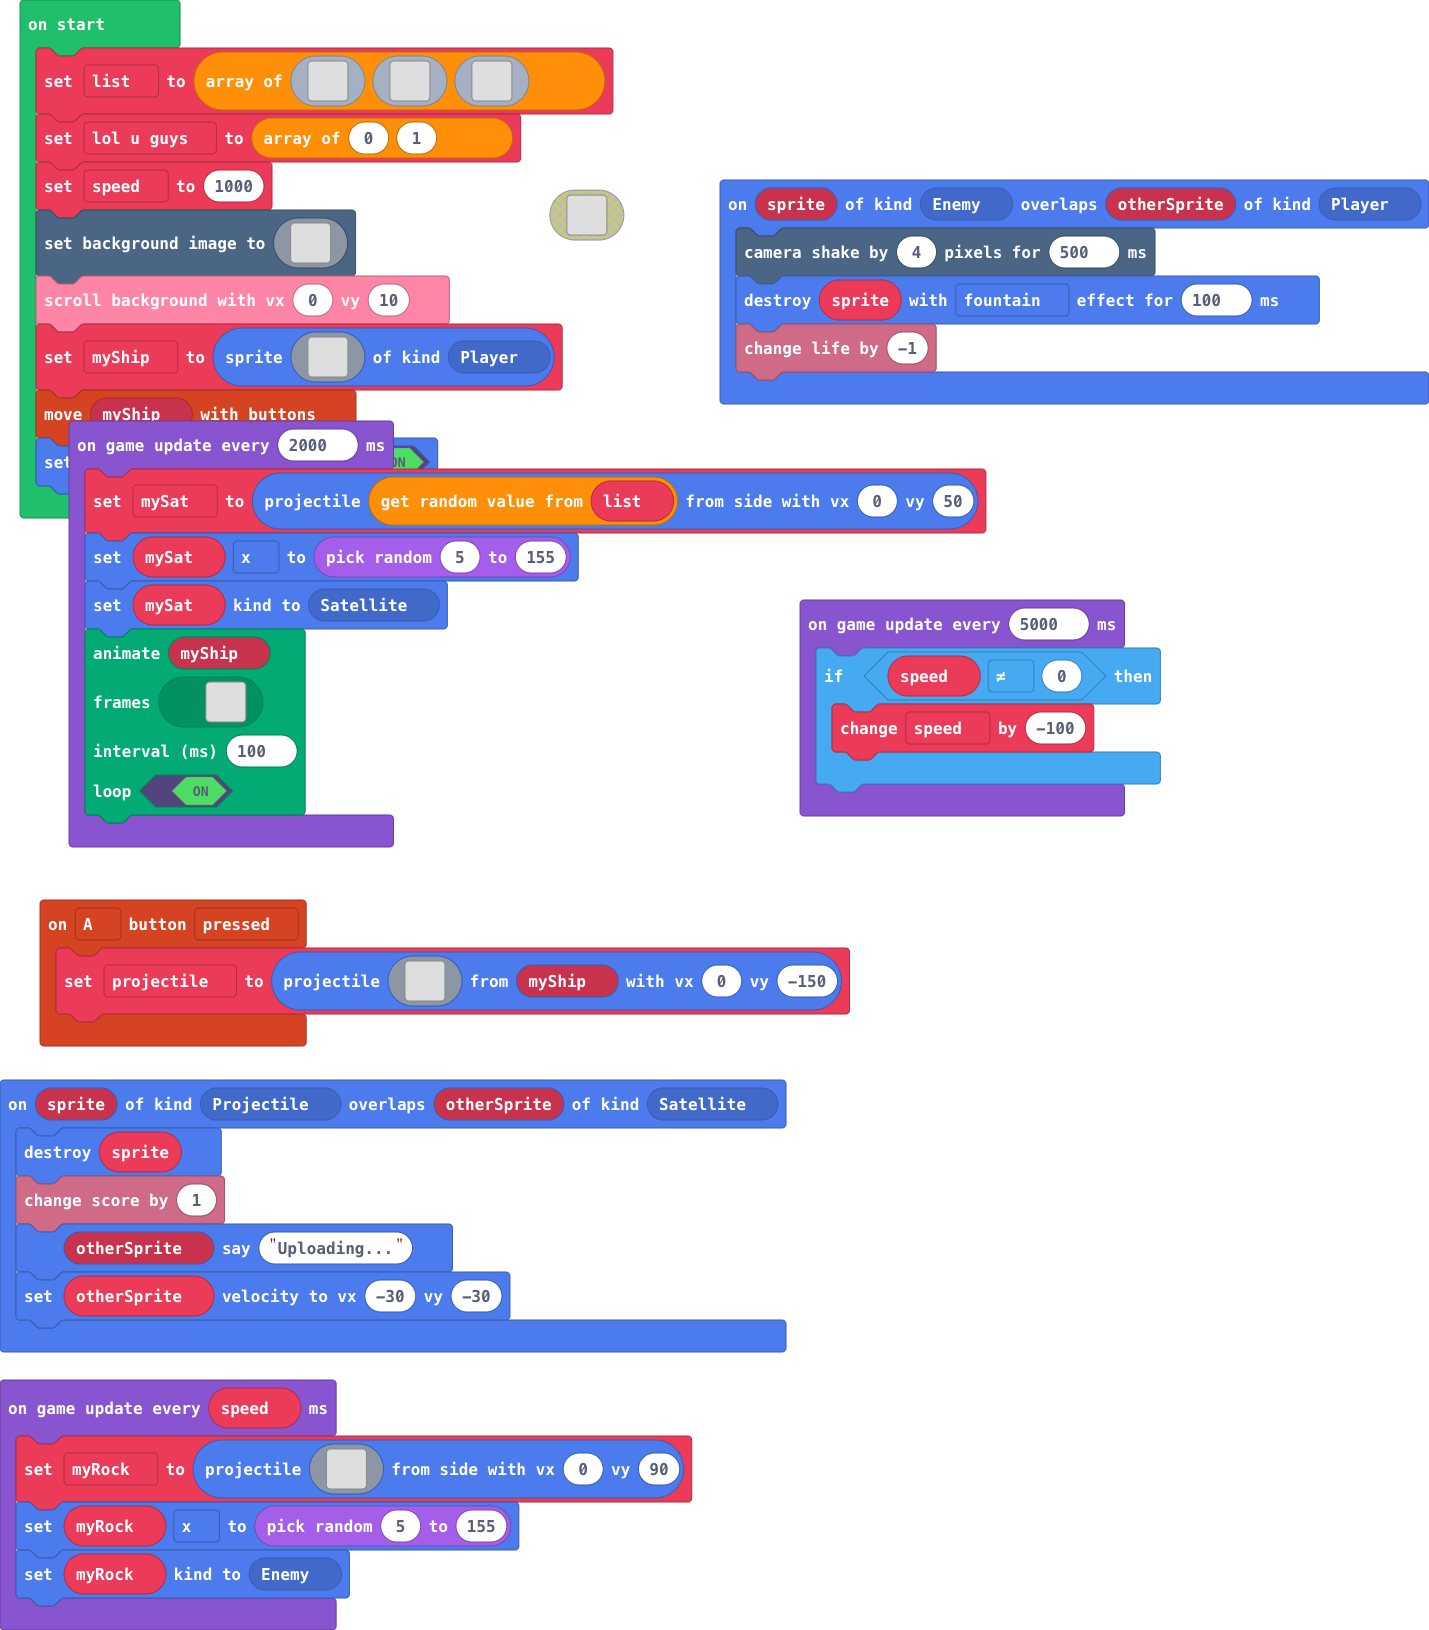
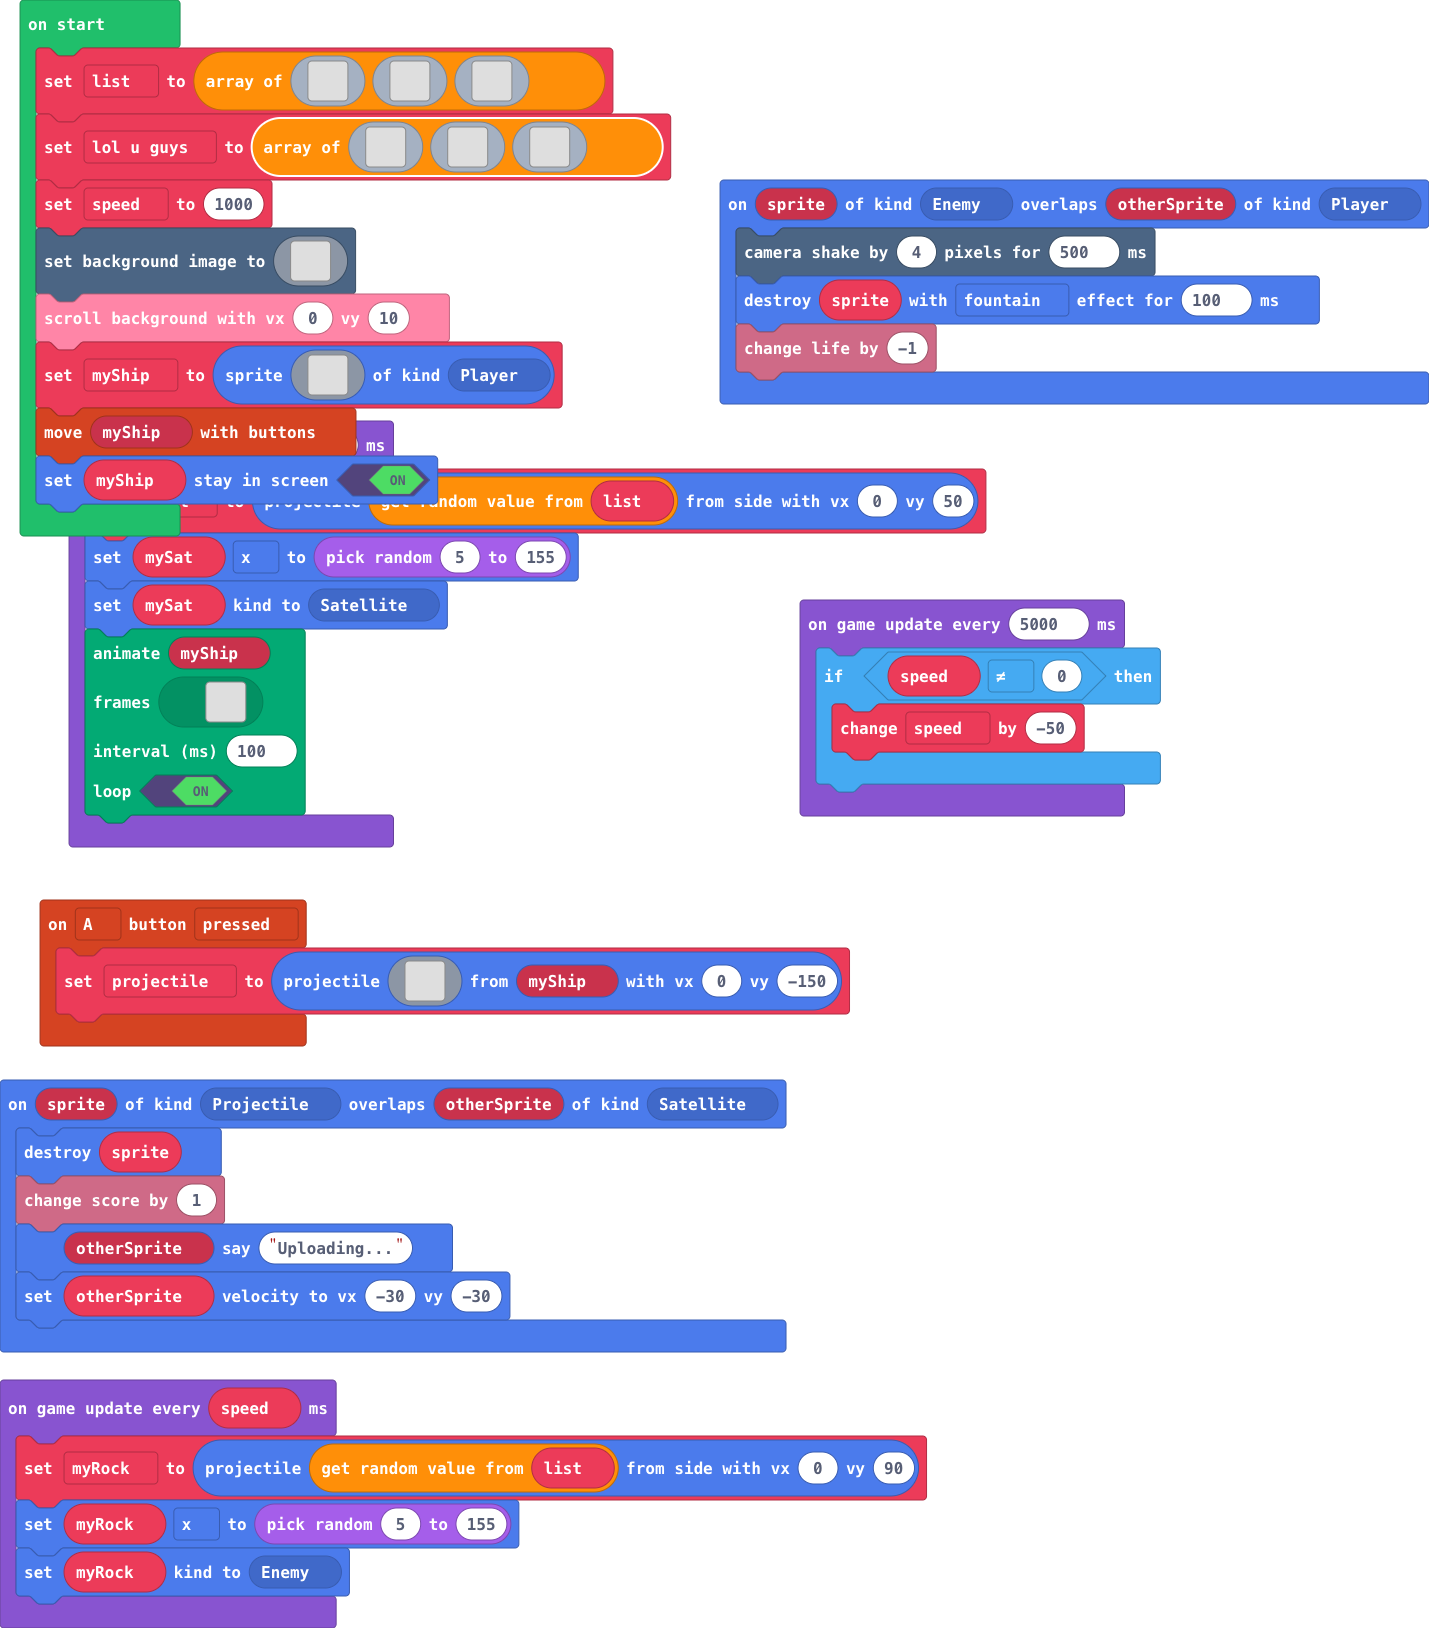
Update main.blocks, main.ts

diff --git a/main.ts b/main.ts
@@ -69,7 +69,58 @@ let list = [img`
     . . . 5 2 2 2 2 2 2 2 2 2 2 2 2 2 5 . . . 
     . . . . . . . . . . . . . . . . . . . . . 
     `]
-let lol_u_guys = [0, 1]
+let lol_u_guys = [img`
+    .........33.........
+    .........333........
+    ........33433.......
+    ........34543.......
+    ........bbbbb.......
+    ........ddddd.......
+    ........ddddd.......
+    .......4444444......
+    ........eeeee.......
+    .........444........
+    .....eeeeeeeeeee....
+    ......444444444.....
+    .......4e44444......
+    ........e4e44.......
+    .........444........
+    ..........4.........
+    `, img`
+    . . . . . . . . . . . . . . . . 
+    . . . . . . . . . . . . . . . . 
+    . . . . . . . . . . . . . . . . 
+    . . . . . . . . . . . . . . . . 
+    . . . . . . . . . . . . . . . . 
+    . . . . . . . . . . . . . . . . 
+    . . . . . . . . . . . . . . . . 
+    . . . . . . . . . . . . . . . . 
+    . . . . . . . . . . . . . . . . 
+    . . . . . . . . . . . . . . . . 
+    . . . . . . . . . . . . . . . . 
+    . . . . . . . . . . . . . . . . 
+    . . . . . . . . . . . . . . . . 
+    . . . . . . . . . . . . . . . . 
+    . . . . . . . . . . . . . . . . 
+    . . . . . . . . . . . . . . . . 
+    `, img`
+    . . . . . . . . . . . . . . . . 
+    . . . . . . . . . . . . . . . . 
+    . . . . . . . . . . . . . . . . 
+    . . . . . . . . . . . . . . . . 
+    . . . . . . . . . . . . . . . . 
+    . . . . . . . . . . . . . . . . 
+    . . . . . . . . . . . . . . . . 
+    . . . . . . . . . . . . . . . . 
+    . . . . . . . . . . . . . . . . 
+    . . . . . . . . . . . . . . . . 
+    . . . . . . . . . . . . . . . . 
+    . . . . . . . . . . . . . . . . 
+    . . . . . . . . . . . . . . . . 
+    . . . . . . . . . . . . . . . . 
+    . . . . . . . . . . . . . . . . 
+    . . . . . . . . . . . . . . . . 
+    `]
 let speed = 1000
 scene.setBackgroundImage(img`
     eeeeeeeeeeeeeeeeeeeeeeeeeeeeeeeeeeeeeeeeeeeeeeeeeeeeeeeeeeeeeeeeeeeeeeeeeeeeeeeeeeeeeeeeeeeeeeeeeeeeeeeeeeeeeeeeeeeeeeeeeeeeeeeeeeeeeeeeeeeeeeeeeeeeeeeeeeeeeeee
@@ -332,7 +383,7 @@ controller.moveSprite(myShip)
 myShip.setStayInScreen(true)
 game.onUpdateInterval(5000, function () {
     if (speed != 0) {
-        speed += -100
+        speed += -50
     }
 })
 game.onUpdateInterval(2000, function () {
@@ -392,24 +443,7 @@ game.onUpdateInterval(2000, function () {
     )
 })
 game.onUpdateInterval(speed, function () {
-    myRock = sprites.createProjectileFromSide(img`
-        .........33.........
-        .........333........
-        ........33433.......
-        ........34543.......
-        ........bbbbb.......
-        ........ddddd.......
-        ........ddddd.......
-        .......4444444......
-        ........eeeee.......
-        .........444........
-        .....eeeeeeeeeee....
-        ......444444444.....
-        .......4e44444......
-        ........e4e44.......
-        .........444........
-        ..........4.........
-        `, 0, 90)
+    myRock = sprites.createProjectileFromSide(list._pickRandom(), 0, 90)
     myRock.x = randint(5, 155)
     myRock.setKind(SpriteKind.Enemy)
 })
